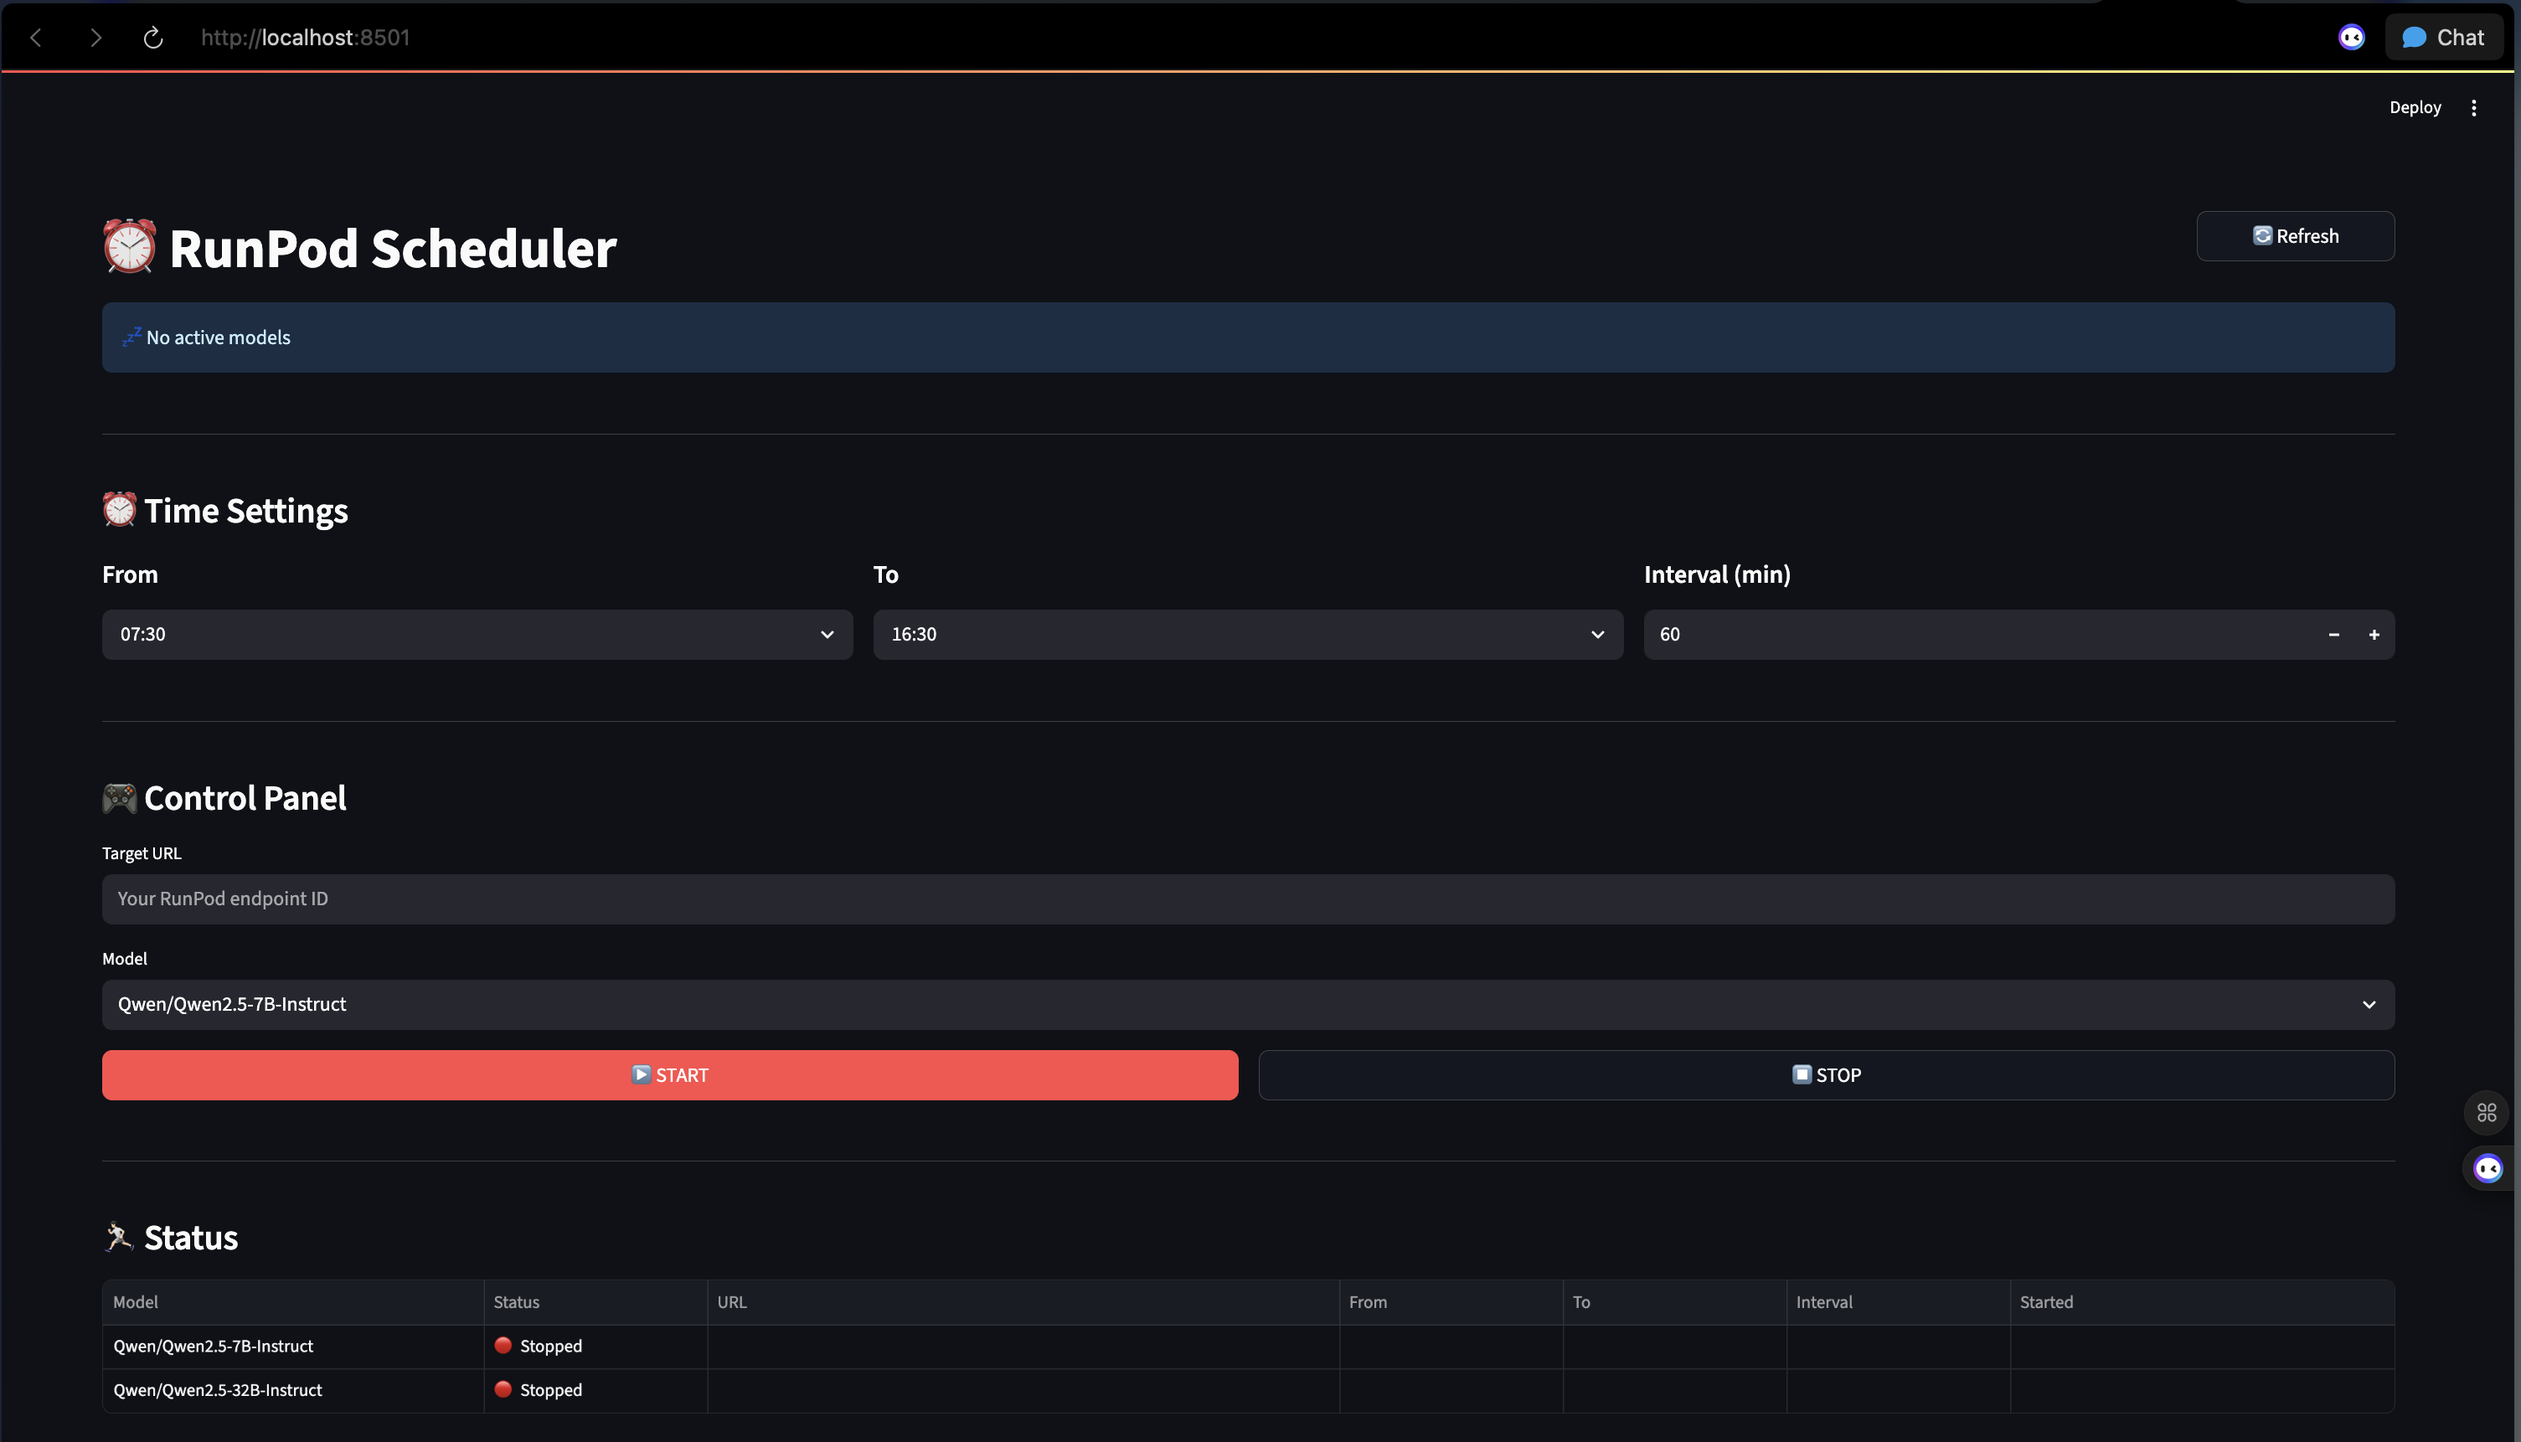
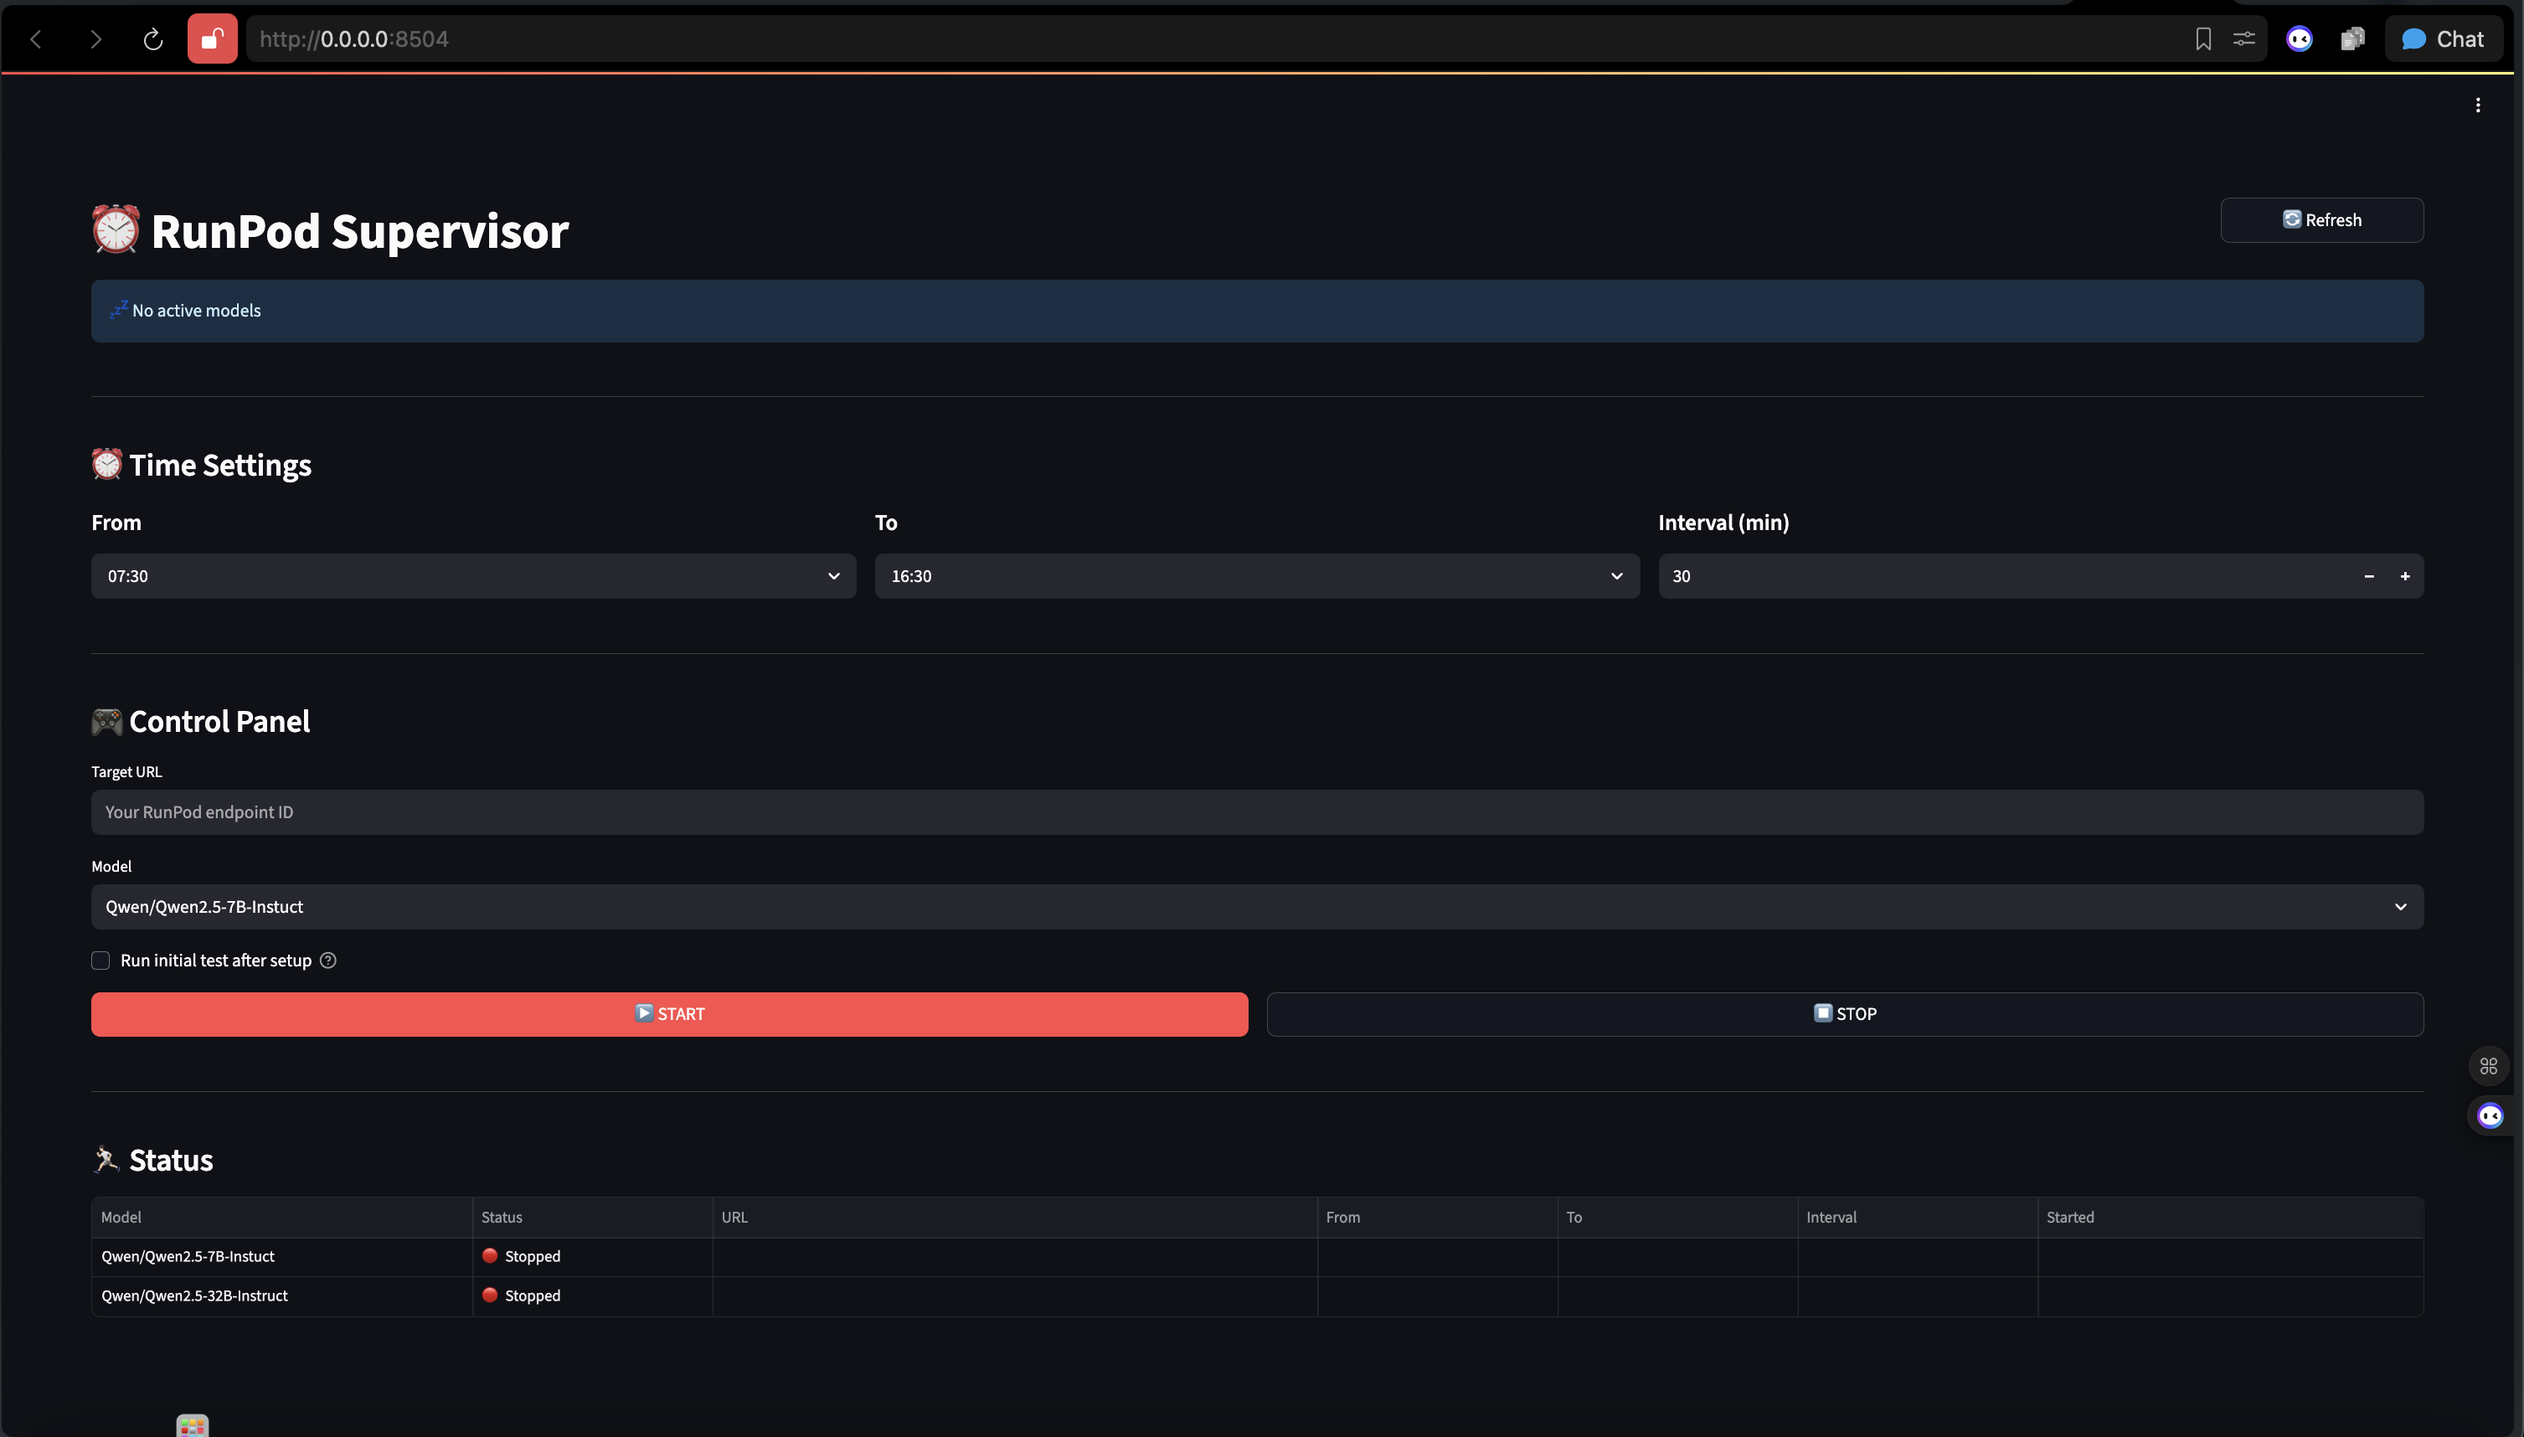
Update documentation and web interface - Add port configuration option to README - Improve scheduler flow description with generic terms - Update interval minimum value from 1 to 30 minutes - Enhance Slack notification context - Update UI screenshots

diff --git a/web_interface.py b/web_interface.py
@@ -68,7 +68,7 @@ with col3:
     st.markdown("##### Interval (min)")
     interval_value = st.number_input(
         "Interval",
-        min_value=1,
+        min_value=30,
         max_value=MAX_INTERVAL,
         value=DEFAULT_INTERVAL,
         label_visibility="collapsed",

diff --git a/README.md b/README.md
@@ -68,6 +68,7 @@ streamlit run web_interface.py
 ```
 
 It will open automatically in your browser or access http://localhost:8501.
+Of course, you can also set a different port number by using a command like `streamlit run web_interface.py --server.port 8502`.
 
 The page may appear as follows:
 
@@ -99,13 +100,13 @@ The page may appear as follows:
 
 Here's how the scheduler works in practice:
 
-1. **Configure and Start**: Set your schedule (e.g., 3:30 AM to 3:33 PM every minute) and press START
+1. **Configure and Start**: Set your schedule (`From` and `To`) and press START
 2. **Status Updates**: The status table immediately shows "🟢 Running" for your model
 
 ![Image](./images/streamlit2.png)
 
-3. **Automatic Scheduling**: Between 3:30 AM and 3:33 PM, requests are sent every minute to keep your serverless model warm
-4. **Slack Notifications**: All scheduling activities are logged to Slack in real-time
+3. **Automatic Scheduling**: Between `From` and `To`, requests are sent every `Interval` to keep your serverless model warm
+4. **Slack Notifications**: All scheduling activities are logged to Slack in real-time. The following example is just one case tested only on the `Qwen/Qwen2.5-32B-Instruct` model.
 
 ![Image](./images/slack.png)
 
